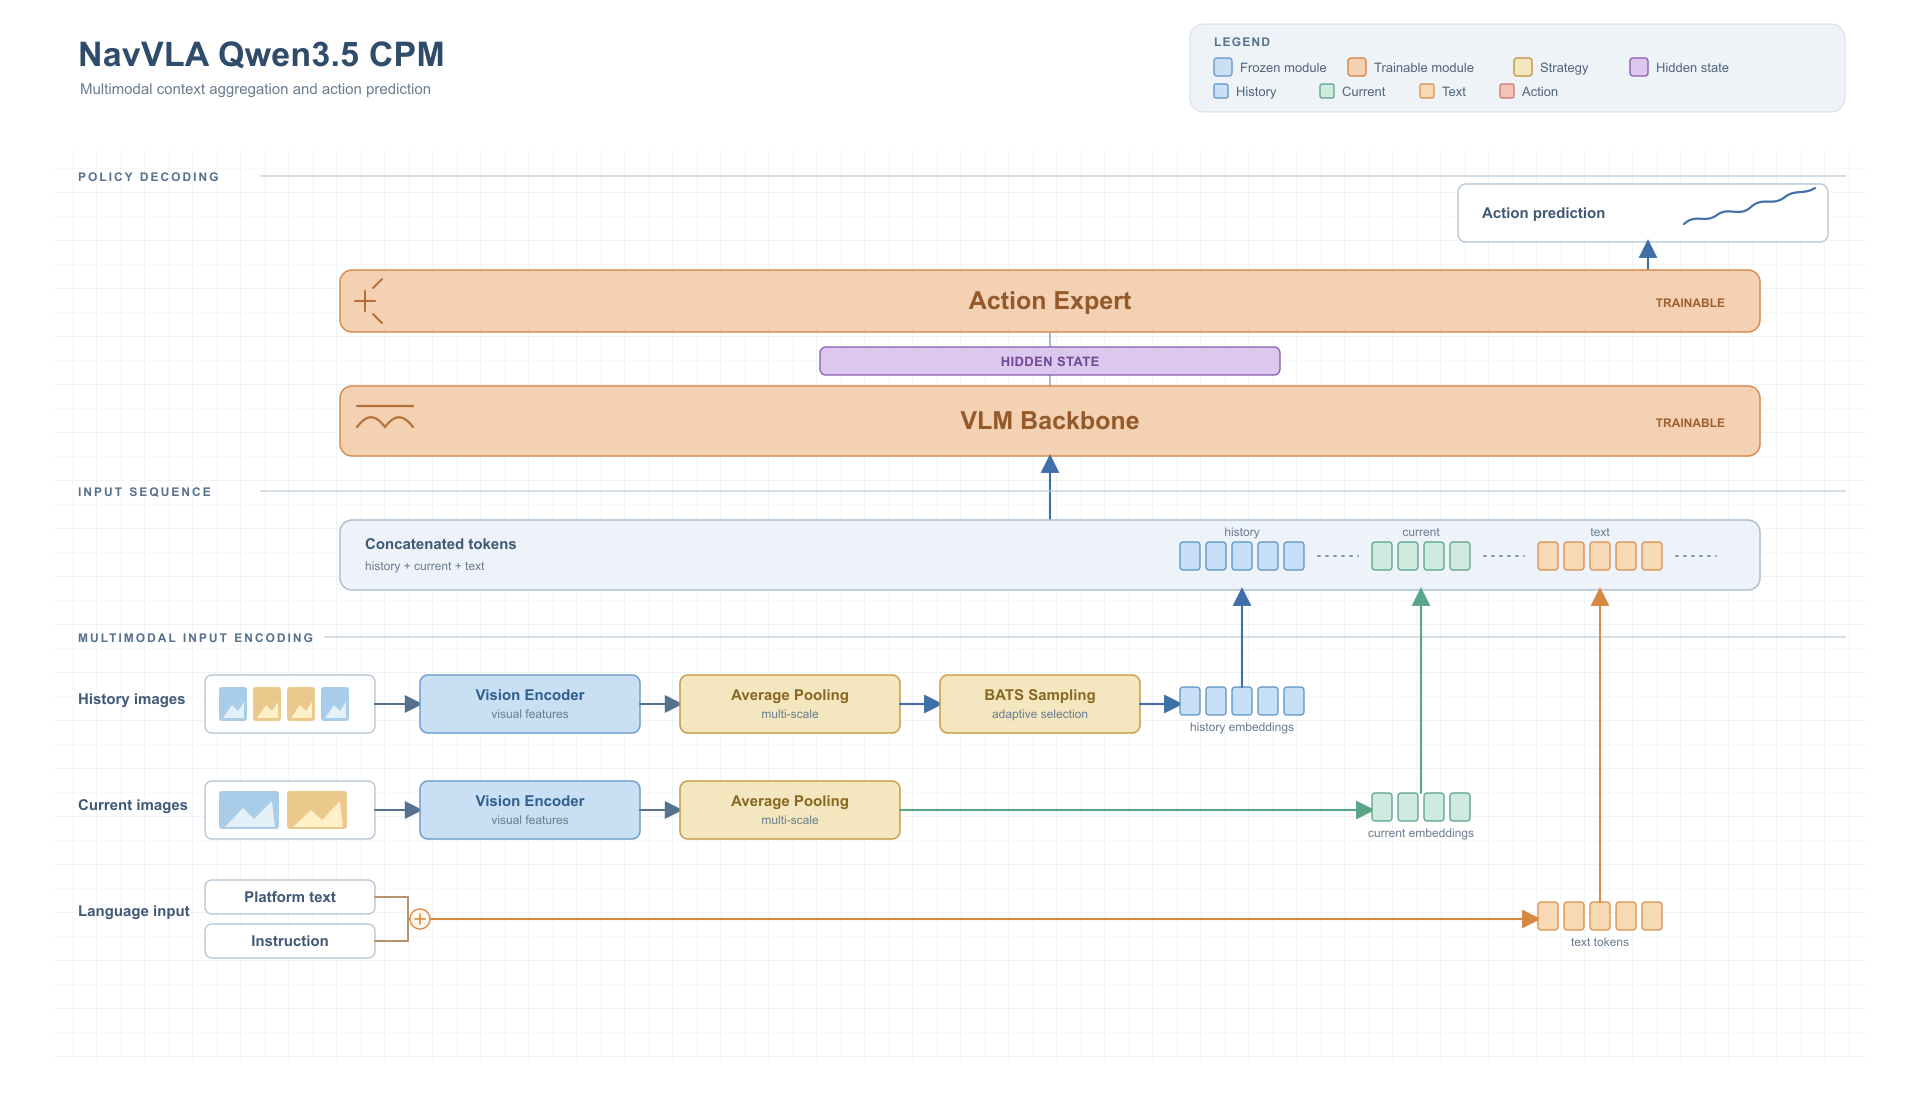
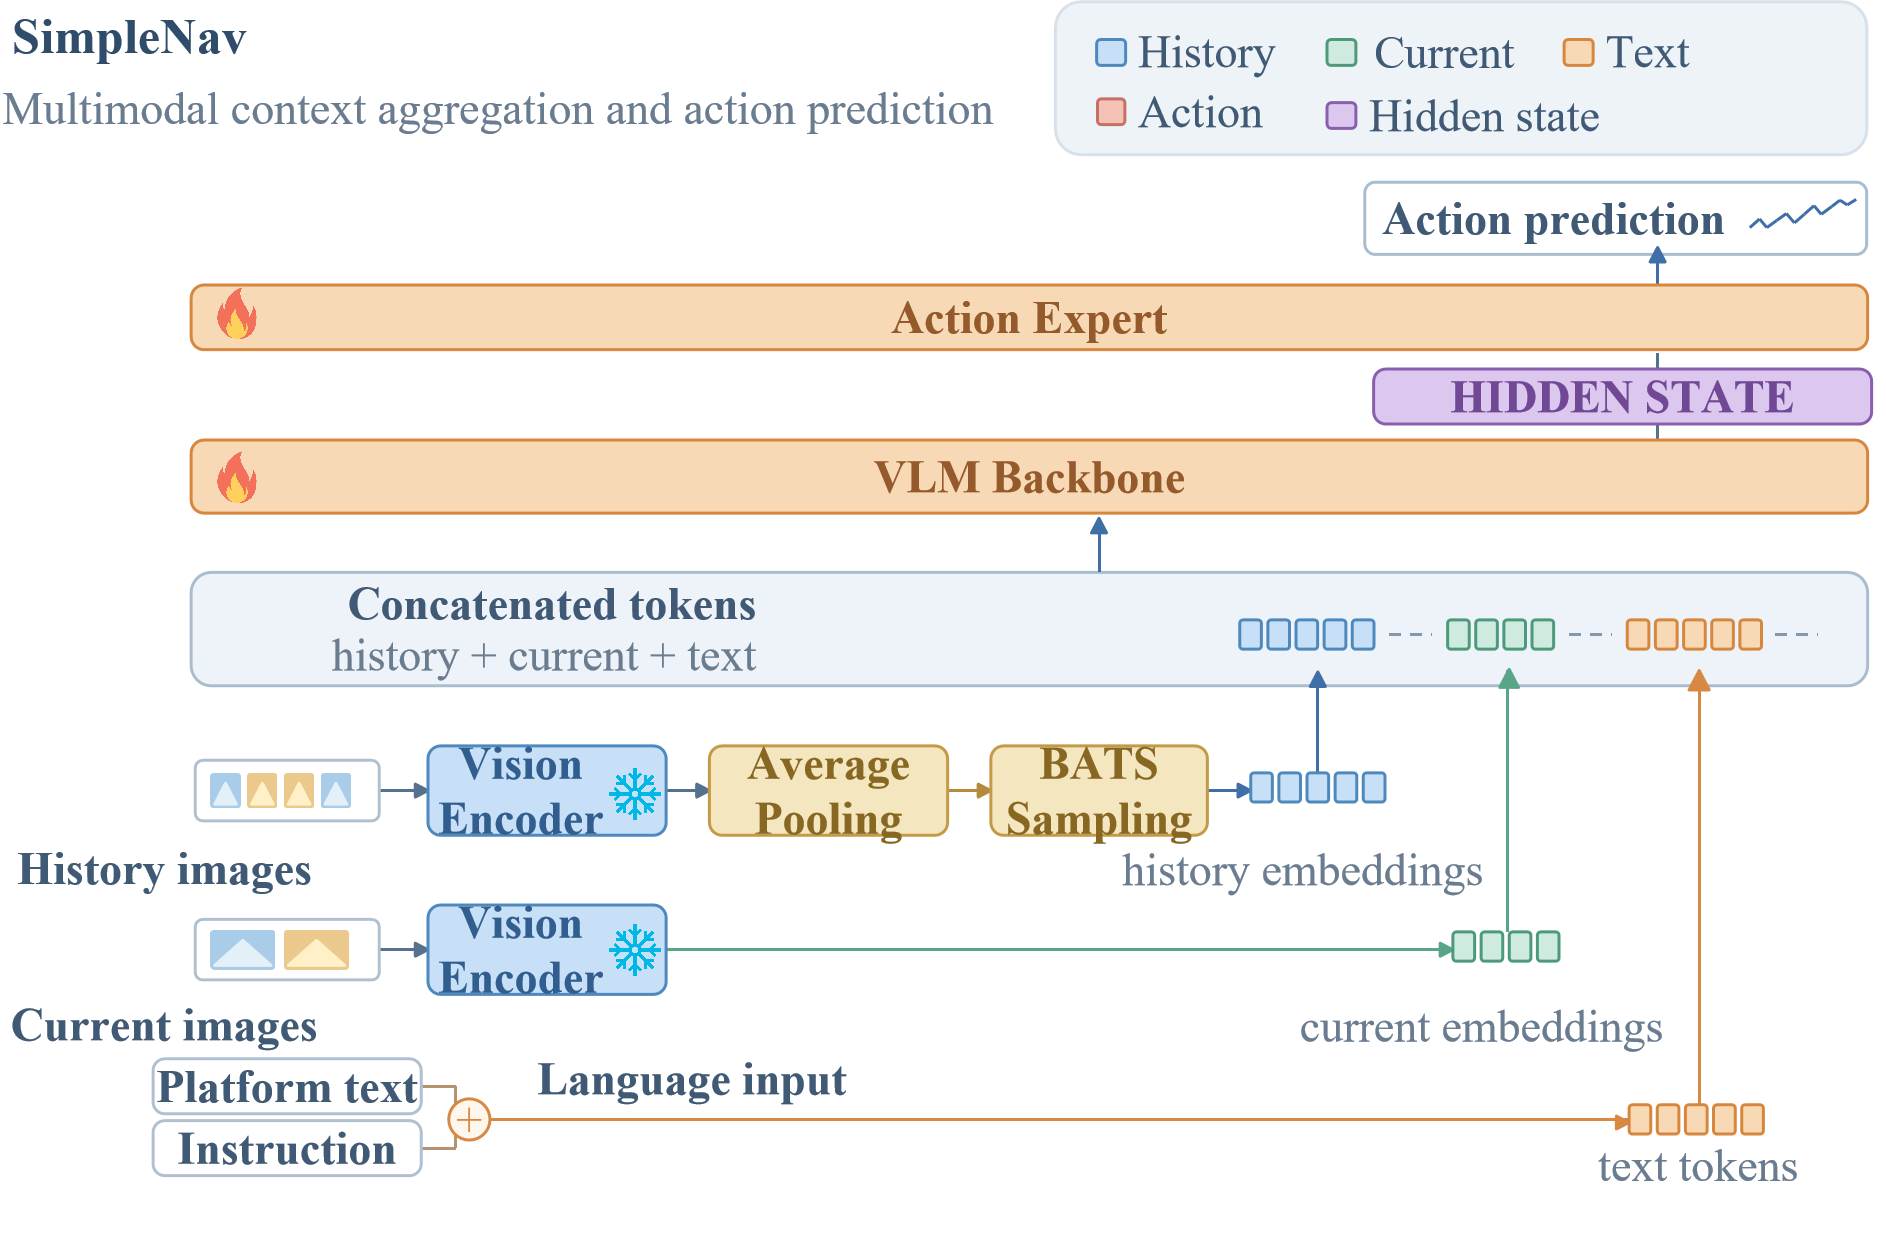
init

diff --git a/website/index.html b/website/index.html
@@ -38,6 +38,8 @@
             <a class="button button-primary" href="https://github.com/fulanya55/starVLA/tree/SimpleNav" target="_blank" rel="noreferrer" data-copy="actions.github">View on GitHub ↗</a>
             <a class="button" href="https://github.com/fulanya55/starVLA/blob/SimpleNav/README.md" target="_blank" rel="noreferrer" data-readme-link data-copy="hero.secondary">Read the README ↗</a>
             <a class="button" href="https://github.com/fulanya55/starVLA/tree/SimpleNav/data_pipeline" target="_blank" rel="noreferrer" data-copy="data.repository">Open data_pipeline/ ↗</a>
+            <a class="button" href="https://www.modelscope.cn/organization/SimpleNav" target="_blank" rel="noreferrer" data-copy="actions.datasets">Download data ↗</a>
+            <a class="button" href="https://www.modelscope.cn/models/fulanya/masaic_ckpt/files" target="_blank" rel="noreferrer" data-copy="actions.weights">Download weights ↗</a>
           </div>
           <div class="hero-meta"><span data-copy="hero.meta">OpenFly · TravelUAV · AerialVLN-S · R2R-CE · RxR-CE · EVT-Bench</span></div>
         </div>

diff --git a/.github/PULL_REQUEST_TEMPLATE.md b/.github/PULL_REQUEST_TEMPLATE.md
@@ -1,0 +1,46 @@
+## Description
+<!-- Briefly describe what this PR does -->
+
+
+## Motivation
+<!-- Why is this change needed? Please link the related Issue -->
+Closes #
+
+## Changes
+<!-- List the key changes -->
+-
+-
+
+## Testing
+<!-- How was this verified? Check at least one -->
+<!-- - [ ] `make check` passes  TODO: enable later -->
+- [ ] Local training for N steps without errors
+- [ ] Benchmark evaluation results (**required** for framework / benchmark changes, see table below)
+
+| Benchmark | Metric | Result |
+|-----------|--------|--------|
+|           |        |        |
+
+- **Checkpoint**: <!-- Required for framework/benchmark changes: public HF link -->
+- **Config**: <!-- Config path under examples/ -->
+- **Reproduce**: <!-- Reproduction command -->
+
+## Type of Change
+- [ ] Bug fix (non-breaking)
+- [ ] New feature (non-breaking)
+- [ ] New framework / benchmark integration
+- [ ] Breaking change
+- [ ] Documentation only
+- [ ] Refactor (no behavior change)
+
+## Checklist
+<!-- - [ ] `make check` passes (Black + Ruff)  TODO: enable later -->
+- [ ] No unrelated changes mixed in
+- [ ] New features have example config in `examples/`
+- [ ] No secrets, API keys, or large binaries committed
+- [ ] Files stay isolated — no unnecessary modification to shared modules (`starVLA/dataloader/`, `starVLA/training/`, `starVLA/config/`)
+- [ ] No modifications to shared files, or justified above
+- [ ] If adding framework/benchmark: checkpoint uploaded to personal HF (public)
+
+## Screenshots / Logs (optional)
+<!-- Training curves, evaluation result screenshots, relevant logs -->

diff --git a/README.md b/README.md
@@ -14,7 +14,9 @@
   <a href="https://fulanya55.github.io/starVLA/">Project Page</a> ·
   <a href="data_pipeline/README.md">Data Pipeline</a> ·
   <a href="docs/guides/README.md">Documentation</a> ·
-  <a href="docs/guides/BENCHMARKS_RELEASE01.md">Results</a>
+  <a href="docs/guides/BENCHMARKS_RELEASE01.md">Results</a> ·
+  <a href="https://www.modelscope.cn/organization/SimpleNav">Datasets &amp; Simulators</a> ·
+  <a href="https://www.modelscope.cn/models/fulanya/masaic_ckpt/files">Checkpoints</a>
 </p>
 
 SimpleNAV connects heterogeneous navigation data, long-horizon VLA models, training, and benchmark evaluation through explicit interfaces. It supports aerial and indoor navigation, keeps dataset-specific coordinate and simulator semantics in adapters, and uses shared model, action, artifact, and evaluation contracts.
@@ -122,7 +124,7 @@ Each preview shows one rollout trajectory. Open the [project-page video gallery]
 
 Public resources:
 
-- [Datasets and simulator environments](https://www.modelscope.cn/profile/fulanya?tab=dataset)
+- [Datasets and simulator environments](https://www.modelscope.cn/organization/SimpleNav)
 - [SimpleNAV checkpoints](https://www.modelscope.cn/models/fulanya/masaic_ckpt/files)
 
 Place downloaded packages in the repository-relative `local/` layout below.

diff --git a/docs/guides/MODELS_AND_CHECKPOINTS.md b/docs/guides/MODELS_AND_CHECKPOINTS.md
@@ -18,7 +18,7 @@ See [Model Architecture](MODEL_ARCHITECTURE.md) and [Qwen3.5-VL CPM implementati
 | [Qwen3.5-4B](https://huggingface.co/Qwen/Qwen3.5-4B) | `local/models/Qwen3.5-4B/` |
 | GroundingDINO Swin-T | `local/models/GroundingDINO/groundingdino_swint_ogc.pth` |
 
-Download the released SimpleNAV checkpoints from [ModelScope](https://www.modelscope.cn/models/fulanya/masaic_ckpt/files). Download dataset and simulator packages from the [SimpleNAV ModelScope dataset profile](https://www.modelscope.cn/profile/fulanya?tab=dataset).
+Download the released SimpleNAV checkpoints from [ModelScope](https://www.modelscope.cn/models/fulanya/masaic_ckpt/files). Download dataset and simulator packages from the [SimpleNAV ModelScope dataset profile](https://www.modelscope.cn/organization/SimpleNav).
 
 ## Checkpoint layout
 

diff --git a/docs/guides/VLNCE_TRAINING_AND_EVALUATION.md b/docs/guides/VLNCE_TRAINING_AND_EVALUATION.md
@@ -4,7 +4,7 @@ This guide reproduces the Qwen3.5-VL training and Habitat evaluation workflow fo
 
 All paths below are relative to the repository root. Run every command from the repository root unless noted otherwise.
 
-Download the released dataset and Habitat environment packages from [ModelScope datasets](https://www.modelscope.cn/profile/fulanya?tab=dataset). Download the released SimpleNAV checkpoint bundle from [ModelScope models](https://www.modelscope.cn/models/fulanya/masaic_ckpt/files).
+Download the released dataset and Habitat environment packages from [ModelScope datasets](https://www.modelscope.cn/organization/SimpleNav). Download the released SimpleNAV checkpoint bundle from [ModelScope models](https://www.modelscope.cn/models/fulanya/masaic_ckpt/files).
 
 ## 1. Environment
 

diff --git a/docs/guides/MODELS_AND_CHECKPOINTS_ZH.md b/docs/guides/MODELS_AND_CHECKPOINTS_ZH.md
@@ -18,7 +18,7 @@
 | [Qwen3.5-4B](https://huggingface.co/Qwen/Qwen3.5-4B) | `local/models/Qwen3.5-4B/` |
 | GroundingDINO Swin-T | `local/models/GroundingDINO/groundingdino_swint_ogc.pth` |
 
-SimpleNAV 发布权重从 [ModelScope](https://www.modelscope.cn/models/fulanya/masaic_ckpt/files) 下载。数据集和仿真环境从 [SimpleNAV ModelScope 数据主页](https://www.modelscope.cn/profile/fulanya?tab=dataset) 下载。
+SimpleNAV 发布权重从 [ModelScope](https://www.modelscope.cn/models/fulanya/masaic_ckpt/files) 下载。数据集和仿真环境从 [SimpleNAV ModelScope 数据主页](https://www.modelscope.cn/organization/SimpleNav) 下载。
 
 ## Checkpoint 布局
 

diff --git a/docs/guides/EVALUATION.md b/docs/guides/EVALUATION.md
@@ -4,7 +4,7 @@
 
 ## Portable configs
 
-Download benchmark data and simulator environments from [ModelScope datasets](https://www.modelscope.cn/profile/fulanya?tab=dataset), and checkpoints from [ModelScope models](https://www.modelscope.cn/models/fulanya/masaic_ckpt/files).
+Download benchmark data and simulator environments from [ModelScope datasets](https://www.modelscope.cn/organization/SimpleNav), and checkpoints from [ModelScope models](https://www.modelscope.cn/models/fulanya/masaic_ckpt/files).
 
 | Benchmark | Config | Launcher | Backend |
 | --- | --- | --- | --- |

diff --git a/docs/guides/EVALUATION_ZH.md b/docs/guides/EVALUATION_ZH.md
@@ -4,7 +4,7 @@
 
 ## 便携配置
 
-Benchmark 数据和仿真环境从 [ModelScope 数据主页](https://www.modelscope.cn/profile/fulanya?tab=dataset) 下载，权重从 [ModelScope 模型主页](https://www.modelscope.cn/models/fulanya/masaic_ckpt/files) 下载。
+Benchmark 数据和仿真环境从 [ModelScope 数据主页](https://www.modelscope.cn/organization/SimpleNav) 下载，权重从 [ModelScope 模型主页](https://www.modelscope.cn/models/fulanya/masaic_ckpt/files) 下载。
 
 | Benchmark | 配置 | 入口 | Backend |
 | --- | --- | --- | --- |

diff --git a/docs/guides/DATA_PIPELINE.md b/docs/guides/DATA_PIPELINE.md
@@ -17,7 +17,7 @@ raw dataset
 
 Source data, generated datasets, and simulator scenes stay outside Git. Put model-ready datasets under `local/data/` or point a local config to another storage location.
 
-Download the released datasets and simulator environments from the [SimpleNAV ModelScope dataset profile](https://www.modelscope.cn/profile/fulanya?tab=dataset).
+Download the released datasets and simulator environments from the [SimpleNAV ModelScope dataset profile](https://www.modelscope.cn/organization/SimpleNav).
 
 ## Components
 

diff --git a/docs/guides/README.md b/docs/guides/README.md
@@ -22,5 +22,5 @@ Implementation references:
 - [Model-side data tools](../../tool/navvla/README.md)
 - [Qwen3.5-VL CPM implementation](QWEN35_CPM_IMPLEMENTATION.md)
 - [Evaluation framework](../../NavVLAeval/README.md)
-- [Public datasets and simulator environments](https://www.modelscope.cn/profile/fulanya?tab=dataset)
+- [Public datasets and simulator environments](https://www.modelscope.cn/organization/SimpleNav)
 - [Public checkpoints](https://www.modelscope.cn/models/fulanya/masaic_ckpt/files)

diff --git a/docs/guides/AERIAL_TRAINING_AND_EVALUATION_ZH.md b/docs/guides/AERIAL_TRAINING_AND_EVALUATION_ZH.md
@@ -25,7 +25,7 @@ cd ../..
 
 ## 2. 下载数据、模型与仿真环境
 
-- 数据集和 AirSim 场景：[ModelScope 数据主页](https://www.modelscope.cn/profile/fulanya?tab=dataset)
+- 数据集和 AirSim 场景：[ModelScope 数据主页](https://www.modelscope.cn/organization/SimpleNav)
 - SimpleNAV 权重：[ModelScope 模型主页](https://www.modelscope.cn/models/fulanya/masaic_ckpt/files)
 - Qwen3.5-4B base model：[Qwen/Qwen3.5-4B](https://huggingface.co/Qwen/Qwen3.5-4B)
 
